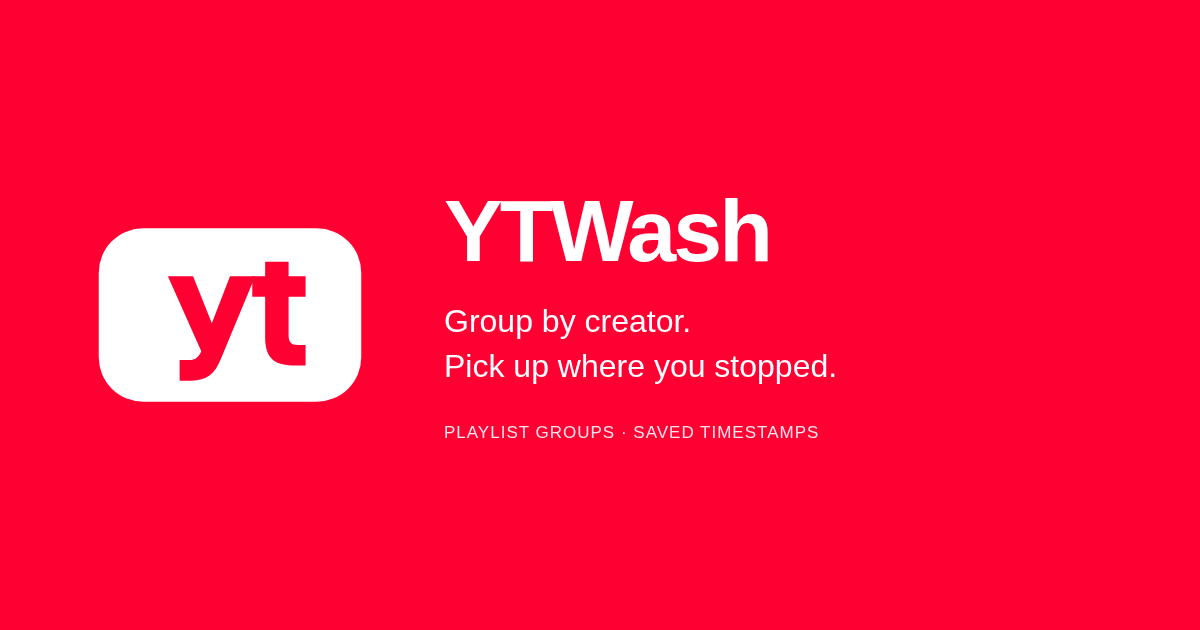
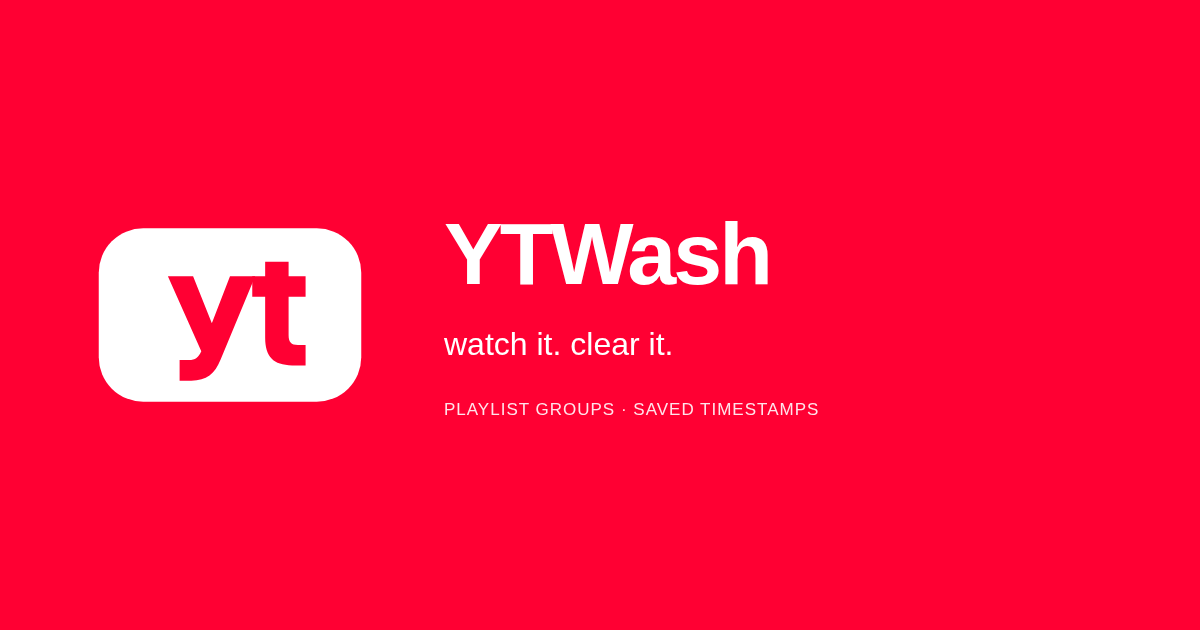
Use watch it. clear it. slogan across publishing assets

Changed region(s): [[0.37, 0.3016, 0.6475, 0.4524], [0.37, 0.4825, 0.7092, 0.6032], [0.37, 0.6333, 0.6783, 0.6937]]

diff --git a/site/index.html b/site/index.html
@@ -5,7 +5,7 @@
   <meta name="viewport" content="width=device-width, initial-scale=1">
   <meta name="theme-color" content="#0b0c0f">
   <meta name="description" content="YTWash makes YouTube Watch Later easier to browse and finish. Group videos by creator, play in sequence, and resume where you left off.">
-  <title>YTWash — Watch it. Clear it.</title>
+  <title>YTWash — watch it. clear it.</title>
   <style>
     :root{color-scheme:dark;font-family:Inter,ui-sans-serif,system-ui,-apple-system,BlinkMacSystemFont,"Segoe UI",sans-serif;background:#0b0c0f;color:#f5f4f1;font-synthesis:none}
     *{box-sizing:border-box}html{scroll-behavior:smooth}body{margin:0}a{color:inherit}button{font:inherit}
@@ -19,12 +19,12 @@
 <body>
   <header class="wrap nav"><a class="mark" href="#top" aria-label="YTWash home">YT<b>Wash</b></a><nav class="navlinks" aria-label="Site navigation"><a href="#features">Features</a><a href="#install">Install</a><a href="https://github.com/akaizn-junior/ytwash">GitHub</a></nav></header>
   <main id="top">
-    <div class="wrap hero"><div><h1>Watch it.<br><span>Clear it.</span></h1><p class="lead">A better way through your Watch Later backlog. Find videos by creator, keep watching in sequence, and save your place—all without leaving YouTube.</p><div class="actions"><a class="button primary" href="https://github.com/akaizn-junior/ytwash/releases">Get YTWash ↗</a><a class="button secondary" href="#install">How to install</a></div><p class="note">Experimental alpha · Free and open source · Manual installation for Chrome and Edge</p></div>
+    <div class="wrap hero"><div><h1>watch it.<br><span>clear it.</span></h1><p class="lead">A better way through your Watch Later backlog. Find videos by creator, keep watching in sequence, and save your place—all without leaving YouTube.</p><div class="actions"><a class="button primary" href="https://github.com/akaizn-junior/ytwash/releases">Get YTWash ↗</a><a class="button secondary" href="#install">How to install</a></div><p class="note">Experimental alpha · Free and open source · Manual installation for Chrome and Edge</p></div>
     <div class="mock" role="img" aria-label="Illustration of creator groups in a YouTube Watch Later playlist. Not a screenshot."><div class="browser"><span class="dot"></span><span class="dot"></span><span class="dot"></span><div class="address">youtube.com/playlist?list=WL</div></div><div class="panel-head"><strong>YTWash · Group by creator</strong><span class="pill">ALPHA</span></div><div class="search">⌕ &nbsp; Search creators or videos</div><div class="creator"><strong>▾ &nbsp; Creator A</strong><small>3 videos</small><div class="video"><span class="thumb"></span><span>Building something worth watching</span></div><div class="video"><span class="thumb alt"></span><span>One more for later</span></div></div><div class="creator"><strong>▸ &nbsp; Creator B</strong><small>2 videos</small></div><div class="creator"><strong>▸ &nbsp; Creator C</strong><small>1 video</small></div><div class="foot-mock">Illustrative preview. Your original playlist stays intact.</div></div></div>
     <section id="features" class="section"><div class="wrap"><h2>Less searching. More watching.</h2><p class="section-intro">YTWash adds simple controls to the YouTube pages you already use. No separate dashboard or duplicate playlist.</p><div class="grid"><article class="card"><span class="num">01 / ORGANIZE</span><h3>Group by creator</h3><p>Find, sort, and explore videos from the same channel. Use “Index more” when YouTube has not loaded the whole playlist.</p></article><article class="card"><span class="num">02 / KEEP WATCHING</span><h3>Play in sequence</h3><p>Play the currently indexed videos from one creator in order. Stop the temporary queue whenever you want.</p></article><article class="card"><span class="num">03 / PICK UP AGAIN</span><h3>Save your place</h3><p>Save a video timestamp locally and return to that point in the same browser profile.</p></article></div><div class="warning"><strong>Optional automatic cleanup:</strong> When enabled, YTWash can attempt to remove finished videos from Watch Later through YouTube's controls. This experimental option is off by default. Keep it off for your first test.</div></div></section>
     <section id="install" class="section"><div class="wrap"><h2>Install the alpha in minutes.</h2><p class="section-intro">YTWash is distributed directly through GitHub while it is experimental. You don't need a YTWash account.</p><div class="steps"><div class="step"><div>Open <a href="https://github.com/akaizn-junior/ytwash/releases">GitHub Releases</a> and download the latest <strong>ytwash-*.zip</strong> under Assets—not the source code ZIP.</div></div><div class="step"><div>Extract the ZIP into a folder. Keep the extracted folder on your computer.</div></div><div class="step"><div>Open <strong>chrome://extensions</strong> (Chrome) or <strong>edge://extensions</strong> (Edge). Enable Developer mode and choose <strong>Load unpacked</strong>.</div></div><div class="step"><div>Select the extracted folder containing <strong>manifest.json</strong>. Open or refresh <a href="https://www.youtube.com/playlist?list=WL">YouTube Watch Later</a>.</div></div></div><p class="note">Firefox support is being tested. The GitHub ZIP is not a signed Firefox add-on and cannot be installed permanently as a normal add-on.</p><div class="actions"><a class="button primary" href="https://github.com/akaizn-junior/ytwash/releases">Download experimental release ↗</a></div></div></section>
     <section class="section"><div class="wrap"><h2>Built to be tested.</h2><p class="section-intro">YTWash has passed automated browser tests using simulated YouTube pages, but hasn't been fully validated on signed-in YouTube. Changes to YouTube's interface may affect its features. Timestamps remain in local browser storage. YTWash is not affiliated with YouTube or Google.</p><div class="actions"><a class="button secondary" href="https://github.com/akaizn-junior/ytwash/issues">Report a problem ↗</a><a class="button secondary" href="https://github.com/akaizn-junior/ytwash#readme">Read the user guide ↗</a></div></div></section>
   </main>
-  <footer class="wrap footer"><span>YTWash · Watch it. Clear it. · MIT licensed</span><span><a href="https://github.com/akaizn-junior/ytwash">Source code</a> · <a href="https://github.com/akaizn-junior/ytwash/releases">Releases</a> · <a href="https://github.com/akaizn-junior/ytwash/issues">Feedback</a></span></footer>
+  <footer class="wrap footer"><span>YTWash · watch it. clear it. · MIT licensed</span><span><a href="https://github.com/akaizn-junior/ytwash">Source code</a> · <a href="https://github.com/akaizn-junior/ytwash/releases">Releases</a> · <a href="https://github.com/akaizn-junior/ytwash/issues">Feedback</a></span></footer>
 </body>
 </html>

diff --git a/assets/brand/social-preview.html b/assets/brand/social-preview.html
@@ -6,4 +6,4 @@
   p{font-size:32px;line-height:1.4;margin:0;max-width:720px;font-weight:500}
   .features{font-size:17px;letter-spacing:1px;margin-top:34px;color:#ffe4eb}
   </style></head><body><div class="logo"><svg xmlns="http://www.w3.org/2000/svg" viewBox="0 0 512 512" role="img" aria-label="YTWash"><rect x="32" y="108" width="448" height="296" rx="76" fill="#fff"/><g fill="#ff0033"><path d="M150 190h43l32 80 31-80h43l-59 142c-10 25-24 36-50 36h-20v-35h16c11 0 16-4 21-15z"/><path d="M316 165h40v25h29v35h-29v65c0 12 4 17 16 17h13v35h-23c-32 0-46-15-46-47v-70h-22v-35h22z"/></g></svg>
-</div><div class="copy"><h1>YTWash</h1><p>Group by creator.<br>Pick up where you stopped.</p><div class="features">PLAYLIST GROUPS · SAVED TIMESTAMPS</div></div></body></html>
+</div><div class="copy"><h1>YTWash</h1><p>watch it. clear it.</p><div class="features">PLAYLIST GROUPS · SAVED TIMESTAMPS</div></div></body></html>

diff --git a/assets/brand/store-marquee.html b/assets/brand/store-marquee.html
@@ -6,4 +6,4 @@
   p{font-size:32px;line-height:1.4;margin:0;max-width:720px;font-weight:500}
   .features{font-size:17px;letter-spacing:1px;margin-top:34px;color:#ffe4eb}
   </style></head><body><div class="logo"><svg xmlns="http://www.w3.org/2000/svg" viewBox="0 0 512 512" role="img" aria-label="YTWash"><rect x="32" y="108" width="448" height="296" rx="76" fill="#fff"/><g fill="#ff0033"><path d="M150 190h43l32 80 31-80h43l-59 142c-10 25-24 36-50 36h-20v-35h16c11 0 16-4 21-15z"/><path d="M316 165h40v25h29v35h-29v65c0 12 4 17 16 17h13v35h-23c-32 0-46-15-46-47v-70h-22v-35h22z"/></g></svg>
-</div><div class="copy"><h1>YTWash</h1><p>Group by creator.<br>Pick up where you stopped.</p><div class="features">PLAYLIST GROUPS · SAVED TIMESTAMPS</div></div></body></html>
+</div><div class="copy"><h1>YTWash</h1><p>watch it. clear it.</p><div class="features">PLAYLIST GROUPS · SAVED TIMESTAMPS</div></div></body></html>

diff --git a/assets/brand/store-tile.html b/assets/brand/store-tile.html
@@ -6,4 +6,4 @@
   p{font-size:17px;line-height:1.4;margin:0;max-width:720px;font-weight:500}
   .features{font-size:11px;letter-spacing:0px;margin-top:18px;color:#ffe4eb}
   </style></head><body><div class="logo"><svg xmlns="http://www.w3.org/2000/svg" viewBox="0 0 512 512" role="img" aria-label="YTWash"><rect x="32" y="108" width="448" height="296" rx="76" fill="#fff"/><g fill="#ff0033"><path d="M150 190h43l32 80 31-80h43l-59 142c-10 25-24 36-50 36h-20v-35h16c11 0 16-4 21-15z"/><path d="M316 165h40v25h29v35h-29v65c0 12 4 17 16 17h13v35h-23c-32 0-46-15-46-47v-70h-22v-35h22z"/></g></svg>
-</div><div class="copy"><h1>YTWash</h1><p>Group by creator.<br>Pick up where you stopped.</p><div class="features">PLAYLIST GROUPS · SAVED TIMESTAMPS</div></div></body></html>
+</div><div class="copy"><h1>YTWash</h1><p>watch it. clear it.</p><div class="features">PLAYLIST GROUPS · SAVED TIMESTAMPS</div></div></body></html>

diff --git a/assets/brand/README.md b/assets/brand/README.md
@@ -8,6 +8,8 @@ White rounded video button with red `yt` lettering. The original SVG uses paths,
 - `social-preview.png`: 1200 × 630 release/social graphic.
 - Corresponding HTML files: editable promotional graphic sources.
 
+Slogan: **watch it. clear it.**
+
 Palette: red `#ff0033`, white `#ffffff`. The white button is intended for colored or dark backgrounds. Promotional copy describes creator groups and saved timestamps without claiming YouTube affiliation.
 
 Recreate PNG exports with `PLAYWRIGHT_BROWSERS_PATH=/path/to/browsers node scripts/export-brand.mjs` after installing the Playwright Chromium browser. Review store-specific listing requirements before upload; promotional graphics do not replace screenshots of the actual extension.

diff --git a/README.md b/README.md
@@ -1,6 +1,6 @@
 # YTWash
 
-**Watch it. Clear it.**
+**watch it. clear it.**
 
 YTWash makes YouTube's **Watch Later** playlist easier to browse and finish. Find videos from the same creator, play them in sequence, and pick up where you left off—all within YouTube.
 
